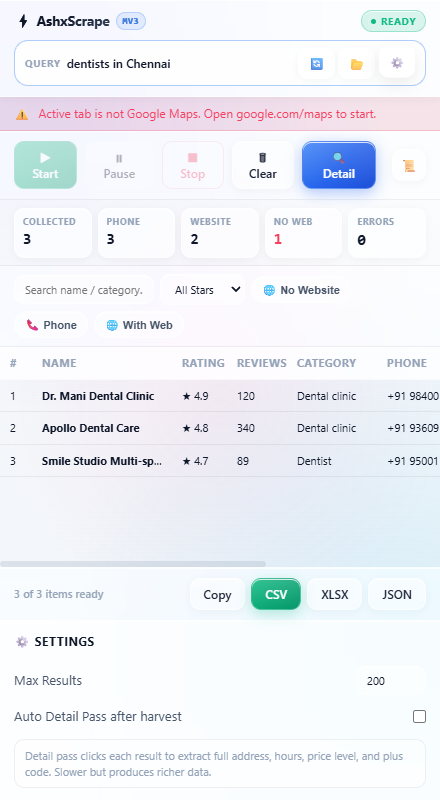
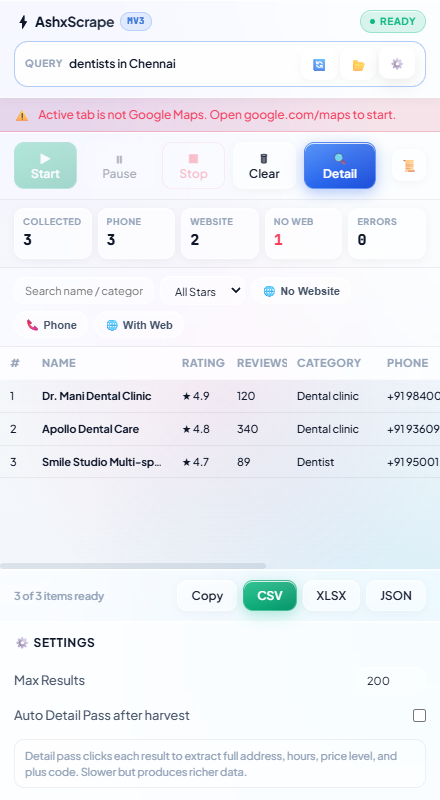
style: upgrade typography to Plus Jakarta Sans & JetBrains Mono for premium modern aesthetic

diff --git a/dist/src/sidepanel/assets/index-C4u0Q8aI.css b/dist/src/sidepanel/assets/index-C4u0Q8aI.css
@@ -1,0 +1,1 @@
+:root{--mesh-1: rgba(99, 102, 241, .12);--mesh-2: rgba(14, 165, 233, .12);--mesh-3: rgba(236, 72, 153, .08);--glass-bg: rgba(255, 255, 255, .65);--glass-bg-subtle: rgba(255, 255, 255, .45);--glass-bg-elevated: rgba(255, 255, 255, .85);--glass-border: rgba(255, 255, 255, .6);--glass-border-subtle: rgba(0, 0, 0, .06);--glass-highlight: inset 0 1px 0 0 rgba(255, 255, 255, .8);--glass-shadow: 0 8px 32px 0 rgba(31, 38, 135, .07);--glass-shadow-sm: 0 2px 8px 0 rgba(0, 0, 0, .04);--glass-blur: blur(24px) saturate(190%);--text-primary: #0f172a;--text-secondary: #475569;--text-muted: #94a3b8;--accent-primary: #2563eb;--accent-gradient: linear-gradient(135deg, #3b82f6 0%, #2563eb 50%, #1d4ed8 100%);--accent-glow: 0 4px 14px 0 rgba(37, 99, 235, .35);--accent-text: #ffffff;--emerald-gradient: linear-gradient(135deg, #10b981 0%, #059669 100%);--emerald-glow: 0 4px 14px 0 rgba(16, 185, 129, .3);--rose-gradient: linear-gradient(135deg, #f43f5e 0%, #e11d48 100%);--rose-glow: 0 4px 14px 0 rgba(244, 63, 94, .3);--amber-gradient: linear-gradient(135deg, #f59e0b 0%, #d97706 100%);--radius-xs: 6px;--radius-sm: 10px;--radius-md: 14px;--radius-lg: 18px;--radius-full: 9999px;--font-sans: "Plus Jakarta Sans", -apple-system, BlinkMacSystemFont, "SF Pro Display", "Inter", "Segoe UI", Roboto, sans-serif;--font-mono: "JetBrains Mono", "SF Mono", ui-monospace, Menlo, Monaco, monospace;--tracking-tight: -.025em;--tracking-normal: -.011em;--tracking-wide: .05em;--ease-spring: cubic-bezier(.34, 1.56, .64, 1);--ease-smooth: cubic-bezier(.16, 1, .3, 1)}@media (prefers-color-scheme: dark){:root{--mesh-1: rgba(99, 102, 241, .18);--mesh-2: rgba(14, 165, 233, .15);--mesh-3: rgba(236, 72, 153, .12);--glass-bg: rgba(15, 23, 42, .65);--glass-bg-subtle: rgba(15, 23, 42, .45);--glass-bg-elevated: rgba(30, 41, 59, .85);--glass-border: rgba(255, 255, 255, .12);--glass-border-subtle: rgba(255, 255, 255, .06);--glass-highlight: inset 0 1px 0 0 rgba(255, 255, 255, .15);--glass-shadow: 0 8px 32px 0 rgba(0, 0, 0, .37);--glass-shadow-sm: 0 2px 8px 0 rgba(0, 0, 0, .2);--text-primary: #f8fafc;--text-secondary: #cbd5e1;--text-muted: #64748b;--accent-gradient: linear-gradient(135deg, #60a5fa 0%, #3b82f6 100%);--accent-glow: 0 4px 16px 0 rgba(96, 165, 250, .35)}}*{box-sizing:border-box;margin:0;padding:0;-webkit-font-smoothing:antialiased;-moz-osx-font-smoothing:grayscale;text-rendering:optimizeLegibility}body{font-family:var(--font-sans);font-size:13px;font-weight:500;letter-spacing:var(--tracking-normal);line-height:1.45;color:var(--text-primary);height:100vh;display:flex;flex-direction:column;overflow:hidden;-webkit-user-select:none;user-select:none;background:radial-gradient(circle at 10% 10%,var(--mesh-1) 0%,transparent 40%),radial-gradient(circle at 90% 80%,var(--mesh-2) 0%,transparent 45%),radial-gradient(circle at 50% 50%,var(--mesh-3) 0%,transparent 50%),linear-gradient(180deg,#f8fafc,#f1f5f9)}@media (prefers-color-scheme: dark){body{background:radial-gradient(circle at 10% 10%,var(--mesh-1) 0%,transparent 40%),radial-gradient(circle at 90% 80%,var(--mesh-2) 0%,transparent 45%),radial-gradient(circle at 50% 50%,var(--mesh-3) 0%,transparent 50%),linear-gradient(180deg,#090d16,#0f172a)}}.app-header{padding:10px 14px;background:var(--glass-bg);backdrop-filter:var(--glass-blur);-webkit-backdrop-filter:var(--glass-blur);border-bottom:1px solid var(--glass-border);box-shadow:var(--glass-highlight),var(--glass-shadow-sm);display:flex;flex-direction:column;gap:8px;z-index:20}.brand-row{display:flex;align-items:center;justify-content:space-between}.brand-title{font-size:14px;font-weight:700;letter-spacing:-.3px;display:flex;align-items:center;gap:6px;background:linear-gradient(135deg,var(--text-primary) 30%,var(--text-secondary) 100%);-webkit-background-clip:text;-webkit-text-fill-color:transparent}.brand-badge{font-size:9px;font-family:var(--font-mono);font-weight:700;letter-spacing:.5px;background:#3b82f61f;color:#3b82f6;border:1px solid rgba(59,130,246,.25);padding:2px 6px;border-radius:var(--radius-full);-webkit-text-fill-color:initial}.query-row{display:flex;align-items:center;justify-content:space-between;gap:8px;background:var(--glass-bg-subtle);border:1px solid var(--glass-border);border-radius:var(--radius-md);padding:6px 10px;box-shadow:var(--glass-highlight);transition:all .25s var(--ease-smooth)}.query-row:hover{background:var(--glass-bg-elevated);border-color:#3b82f666}.query-info{display:flex;align-items:center;gap:6px;overflow:hidden;white-space:nowrap;flex:1}.query-label{font-size:10px;font-weight:700;color:var(--text-muted);letter-spacing:.6px;text-transform:uppercase}.query-text{font-size:12px;font-weight:600;color:var(--text-primary);overflow:hidden;text-overflow:ellipsis;white-space:nowrap}.state-chip{font-size:10px;font-weight:700;text-transform:uppercase;letter-spacing:.5px;padding:3px 9px;border-radius:var(--radius-full);display:inline-flex;align-items:center;gap:5px;box-shadow:var(--glass-highlight);transition:all .3s var(--ease-spring)}.state-chip:before{content:"";display:inline-block;width:5px;height:5px;border-radius:50%;background:currentColor}.state-idle{background:#94a3b826;color:var(--text-secondary);border:1px solid rgba(148,163,184,.25)}.state-scrolling{background:#10b98126;color:#10b981;border:1px solid rgba(16,185,129,.3);animation:pulseGlow 1.8s infinite}.state-detailing{background:#3b82f626;color:#3b82f6;border:1px solid rgba(59,130,246,.3);animation:pulseGlow 1.8s infinite}.state-paused{background:#f59e0b26;color:#f59e0b;border:1px solid rgba(245,158,11,.3)}.state-done{background:#10b98126;color:#10b981;border:1px solid rgba(16,185,129,.3)}.state-blocked,.state-error{background:#f43f5e26;color:#f43f5e;border:1px solid rgba(244,63,94,.3)}@keyframes pulseGlow{0%,to{transform:scale(1);opacity:1}50%{transform:scale(1.03);opacity:.85}}.notice-banner{padding:8px 14px;font-size:12px;display:flex;align-items:center;gap:8px;background:#f59e0b1f;color:#b45309;border-bottom:1px solid rgba(245,158,11,.2);-webkit-backdrop-filter:var(--glass-blur);backdrop-filter:var(--glass-blur)}@media (prefers-color-scheme: dark){.notice-banner{color:#fcd34d}}.notice-banner.hidden{display:none}.notice-banner.danger{background:#f43f5e1f;color:#f43f5e;border-bottom-color:#f43f5e40}.control-bar{padding:10px 14px;display:flex;align-items:center;gap:8px;background:var(--glass-bg);backdrop-filter:var(--glass-blur);-webkit-backdrop-filter:var(--glass-blur);border-bottom:1px solid var(--glass-border-subtle);box-shadow:var(--glass-highlight)}.btn{-webkit-appearance:none;-moz-appearance:none;appearance:none;border:1px solid var(--glass-border);background:var(--glass-bg-subtle);color:var(--text-primary);font-family:var(--font-sans);font-size:12px;font-weight:600;padding:7px 13px;border-radius:var(--radius-sm);cursor:pointer;display:inline-flex;align-items:center;justify-content:center;gap:6px;box-shadow:var(--glass-highlight),var(--glass-shadow-sm);transition:all .25s var(--ease-spring);position:relative;overflow:hidden}.btn:after{content:"";position:absolute;top:0;left:0;right:0;bottom:0;background:linear-gradient(180deg,#ffffff26,#fff0);pointer-events:none}.btn:hover:not(:disabled){transform:translateY(-1.5px);background:var(--glass-bg-elevated);box-shadow:var(--glass-highlight),0 6px 16px #00000014}.btn:active:not(:disabled){transform:scale(.95);transition-duration:.1s}.btn:disabled{opacity:.35;cursor:not-allowed;transform:none;box-shadow:none}.btn-primary{background:var(--emerald-gradient);color:#fff;border:1px solid rgba(255,255,255,.25);box-shadow:var(--glass-highlight),var(--emerald-glow)}.btn-primary:hover:not(:disabled){background:linear-gradient(135deg,#059669,#047857);box-shadow:var(--glass-highlight),0 6px 20px #10b98173}.btn-secondary{background:var(--accent-gradient);color:#fff;border:1px solid rgba(255,255,255,.25);box-shadow:var(--glass-highlight),var(--accent-glow)}.btn-secondary:hover:not(:disabled){box-shadow:var(--glass-highlight),0 6px 20px #2563eb73}.btn-danger{color:#f43f5e;border-color:#f43f5e40}.btn-danger:hover:not(:disabled){background:#f43f5e1f;border-color:#f43f5e66}.btn-icon{padding:7px 9px;border-radius:var(--radius-sm)}.stats-grid{display:grid;grid-template-columns:repeat(5,1fr);gap:6px;padding:8px 14px;background:var(--glass-bg-subtle);border-bottom:1px solid var(--glass-border-subtle)}.stat-card{padding:6px 8px;background:var(--glass-bg);-webkit-backdrop-filter:var(--glass-blur);backdrop-filter:var(--glass-blur);border:1px solid var(--glass-border);border-radius:var(--radius-sm);display:flex;flex-direction:column;gap:2px;box-shadow:var(--glass-highlight),var(--glass-shadow-sm);transition:all .25s var(--ease-spring)}.stat-card:hover{transform:translateY(-1px);background:var(--glass-bg-elevated)}.stat-label{font-size:9px;text-transform:uppercase;font-weight:700;color:var(--text-muted);letter-spacing:.5px;white-space:nowrap;overflow:hidden;text-overflow:ellipsis}.stat-val{font-size:15px;font-weight:800;font-family:var(--font-mono);letter-spacing:-.5px;color:var(--text-primary)}.stat-val.stat-money{color:#f43f5e}.filter-bar{padding:8px 14px;background:var(--glass-bg);-webkit-backdrop-filter:var(--glass-blur);backdrop-filter:var(--glass-blur);border-bottom:1px solid var(--glass-border-subtle);display:flex;flex-wrap:wrap;align-items:center;gap:6px}.filter-input{font-family:var(--font-sans);font-size:11px;padding:6px 10px;border:1px solid var(--glass-border);border-radius:var(--radius-sm);background:var(--glass-bg-subtle);color:var(--text-primary);outline:none;box-shadow:var(--glass-highlight);transition:all .2s var(--ease-smooth)}.filter-input:focus{border-color:#3b82f6;background:var(--glass-bg-elevated);box-shadow:0 0 0 3px #3b82f626}.filter-chip{font-size:11px;font-weight:600;padding:5px 10px;border-radius:var(--radius-full);border:1px solid var(--glass-border);background:var(--glass-bg-subtle);color:var(--text-secondary);cursor:pointer;display:inline-flex;align-items:center;gap:4px;box-shadow:var(--glass-highlight);transition:all .25s var(--ease-spring)}.filter-chip:hover{transform:translateY(-1px);background:var(--glass-bg-elevated);color:var(--text-primary)}.filter-chip:active{transform:scale(.95)}.filter-chip.active{background:var(--accent-gradient);color:#fff;border-color:#ffffff4d;box-shadow:var(--glass-highlight),var(--accent-glow)}.main-view{flex:1;overflow:auto;position:relative;background:transparent}.empty-state{position:absolute;top:50%;left:50%;transform:translate(-50%,-50%);text-align:center;color:var(--text-muted);padding:24px;max-width:280px;background:var(--glass-bg-subtle);-webkit-backdrop-filter:var(--glass-blur);backdrop-filter:var(--glass-blur);border:1px solid var(--glass-border);border-radius:var(--radius-lg);box-shadow:var(--glass-highlight),var(--glass-shadow)}.empty-icon{font-size:36px;margin-bottom:8px;opacity:.8}.empty-title{font-weight:700;font-size:14px;margin-bottom:4px;color:var(--text-primary)}.empty-desc{font-size:12px;line-height:1.5;color:var(--text-secondary)}.table-container{width:100%;height:100%;overflow:auto}.data-table{width:100%;border-collapse:collapse;font-size:11px;table-layout:fixed}.data-table th{position:sticky;top:0;background:var(--glass-bg-elevated);backdrop-filter:var(--glass-blur);-webkit-backdrop-filter:var(--glass-blur);color:var(--text-muted);font-weight:700;text-transform:uppercase;letter-spacing:.4px;text-align:left;padding:8px 10px;border-bottom:1px solid var(--glass-border);z-index:10;white-space:nowrap}.data-table td{padding:8px 10px;border-bottom:1px solid var(--glass-border-subtle);white-space:nowrap;overflow:hidden;text-overflow:ellipsis;max-width:160px;transition:background .15s ease}.data-table tr{transition:background .15s ease}.data-table tr:hover{background:#3b82f614;cursor:pointer}.export-bar{padding:10px 14px;background:var(--glass-bg);backdrop-filter:var(--glass-blur);-webkit-backdrop-filter:var(--glass-blur);border-top:1px solid var(--glass-border);box-shadow:var(--glass-highlight);display:flex;align-items:center;justify-content:space-between;z-index:20}.export-count{font-size:11px;font-weight:600;color:var(--text-muted)}.export-actions{display:flex;gap:6px}.settings-drawer,.history-drawer{background:var(--glass-bg-elevated);backdrop-filter:var(--glass-blur);-webkit-backdrop-filter:var(--glass-blur);border-top:1px solid var(--glass-border);padding:12px 14px;box-shadow:var(--glass-highlight),var(--glass-shadow);animation:slideUp .3s var(--ease-spring)}.history-drawer{max-height:220px;overflow-y:auto}.settings-drawer.hidden,.history-drawer.hidden{display:none}.drawer-header{font-weight:700;font-size:12px;color:var(--text-primary);margin-bottom:10px;text-transform:uppercase;letter-spacing:.5px}.setting-row{display:flex;align-items:center;justify-content:space-between;gap:8px;padding:6px 0;cursor:pointer;color:var(--text-secondary)}.setting-note{margin-top:8px;padding:8px 10px;background:var(--glass-bg-subtle);border:1px solid var(--glass-border-subtle);border-radius:var(--radius-sm);color:var(--text-muted);font-size:11px;line-height:1.4}.history-list{display:flex;flex-direction:column;gap:6px}.history-item{display:flex;align-items:center;gap:8px;padding:8px 10px;background:var(--glass-bg-subtle);border:1px solid var(--glass-border);border-radius:var(--radius-sm);box-shadow:var(--glass-highlight);transition:all .2s var(--ease-spring)}.history-item:hover{transform:translateY(-1px);background:var(--glass-bg)}.history-query{flex:1;font-weight:600;color:var(--text-primary);white-space:nowrap;overflow:hidden;text-overflow:ellipsis}.history-meta{color:var(--text-muted);font-size:10px;white-space:nowrap}.history-load-btn{padding:3px 9px;font-size:10px;border-radius:var(--radius-xs)}.log-drawer{height:110px;background:#020617d9;-webkit-backdrop-filter:var(--glass-blur);backdrop-filter:var(--glass-blur);color:#94a3b8;font-family:var(--font-mono);font-size:10px;overflow-y:auto;padding:8px 12px;border-top:1px solid rgba(255,255,255,.1);box-shadow:inset 0 2px 6px #0000004d}.log-drawer.hidden{display:none}.log-line{line-height:1.6;word-break:break-all}.log-time{color:#475569;margin-right:6px}.log-warn{color:#fbbf24}.log-error{color:#f87171}.log-info{color:#38bdf8}.log-success{color:#4ade80}::-webkit-scrollbar{width:6px;height:6px}::-webkit-scrollbar-track{background:transparent}::-webkit-scrollbar-thumb{background:#94a3b840;border-radius:9999px}::-webkit-scrollbar-thumb:hover{background:#94a3b873}@keyframes slideUp{0%{opacity:0;transform:translateY(8px)}to{opacity:1;transform:translateY(0)}}

diff --git a/src/sidepanel/styles.css b/src/sidepanel/styles.css
@@ -45,14 +45,18 @@
   --radius-lg: 18px;
   --radius-full: 9999px;
 
-  /* Typography */
-  --font-sans: -apple-system, BlinkMacSystemFont, "SF Pro Display", "SF Pro Text", "Segoe UI", Roboto, Helvetica, sans-serif;
-  --font-mono: "SF Mono", ui-monospace, Menlo, Monaco, Consolas, monospace;
+  /* Typography Hierarchy */
+  --font-sans: 'Plus Jakarta Sans', -apple-system, BlinkMacSystemFont, 'SF Pro Display', 'Inter', 'Segoe UI', Roboto, sans-serif;
+  --font-mono: 'JetBrains Mono', 'SF Mono', ui-monospace, Menlo, Monaco, monospace;
+  --tracking-tight: -0.025em;
+  --tracking-normal: -0.011em;
+  --tracking-wide: 0.05em;
 
   /* Buttery Animation Curves */
   --ease-spring: cubic-bezier(0.34, 1.56, 0.64, 1);
   --ease-smooth: cubic-bezier(0.16, 1, 0.3, 1);
 }
+
 
 @media (prefers-color-scheme: dark) {
   :root {
@@ -85,18 +89,22 @@
   padding: 0;
   -webkit-font-smoothing: antialiased;
   -moz-osx-font-smoothing: grayscale;
+  text-rendering: optimizeLegibility;
 }
 
 body {
   font-family: var(--font-sans);
   font-size: 13px;
-  line-height: 1.4;
+  font-weight: 500;
+  letter-spacing: var(--tracking-normal);
+  line-height: 1.45;
   color: var(--text-primary);
   height: 100vh;
   display: flex;
   flex-direction: column;
   overflow: hidden;
   user-select: none;
+
   background: 
     radial-gradient(circle at 10% 10%, var(--mesh-1) 0%, transparent 40%),
     radial-gradient(circle at 90% 80%, var(--mesh-2) 0%, transparent 45%),

diff --git a/dist/src/sidepanel/index.html b/dist/src/sidepanel/index.html
@@ -4,9 +4,13 @@
   <meta charset="UTF-8">
   <meta name="viewport" content="width=device-width, initial-scale=1.0">
   <title>AshxScrape</title>
-  <script type="module" crossorigin src="./assets/index-DNhYX5K7.js"></script>
-  <link rel="stylesheet" crossorigin href="./assets/index-IkaZcu0Z.css">
+  <link rel="preconnect" href="https://fonts.googleapis.com">
+  <link rel="preconnect" href="https://fonts.gstatic.com" crossorigin>
+  <link href="https://fonts.googleapis.com/css2?family=Plus+Jakarta+Sans:wght@400;500;600;700;800&family=JetBrains+Mono:wght@500;600;700;800&display=swap" rel="stylesheet">
+  <script type="module" crossorigin src="./assets/index-BPlK2YBZ.js"></script>
+  <link rel="stylesheet" crossorigin href="./assets/index-C4u0Q8aI.css">
 </head>
+
 <body>
   <!-- Header -->
   <header class="app-header">

diff --git a/src/sidepanel/index.html b/src/sidepanel/index.html
@@ -4,8 +4,12 @@
   <meta charset="UTF-8">
   <meta name="viewport" content="width=device-width, initial-scale=1.0">
   <title>AshxScrape</title>
+  <link rel="preconnect" href="https://fonts.googleapis.com">
+  <link rel="preconnect" href="https://fonts.gstatic.com" crossorigin>
+  <link href="https://fonts.googleapis.com/css2?family=Plus+Jakarta+Sans:wght@400;500;600;700;800&family=JetBrains+Mono:wght@500;600;700;800&display=swap" rel="stylesheet">
   <link rel="stylesheet" href="styles.css">
 </head>
+
 <body>
   <!-- Header -->
   <header class="app-header">
